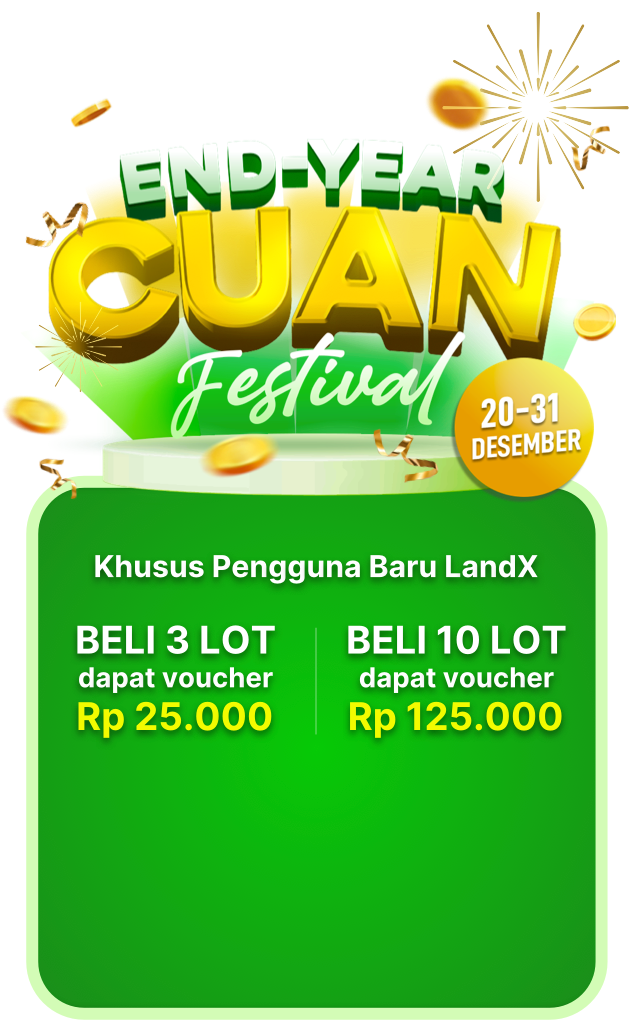
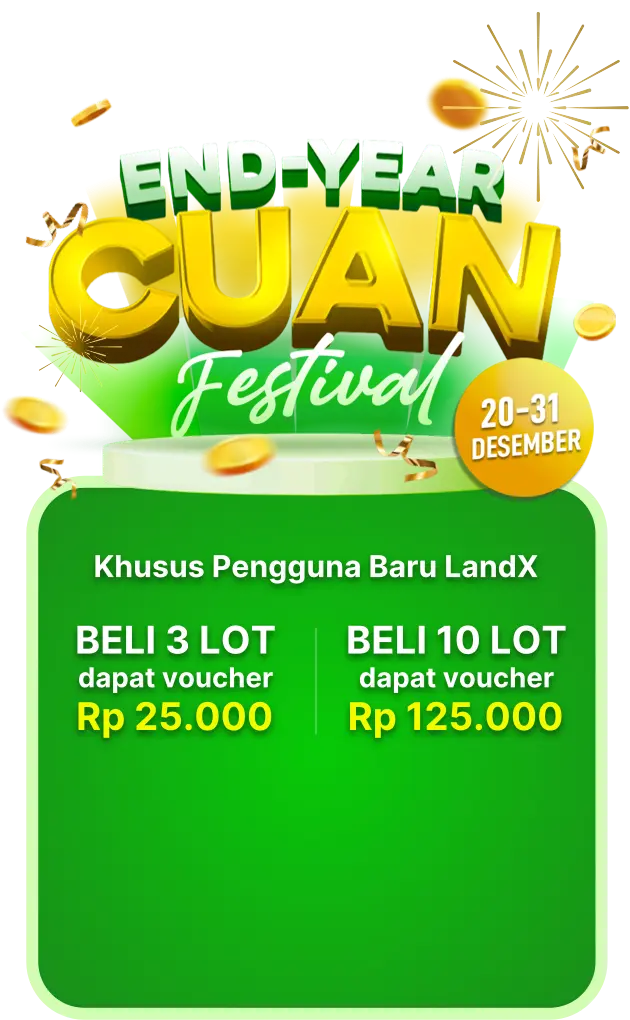
optimize image dan file css

diff --git a/landx-cuan/index.html b/landx-cuan/index.html
@@ -14,7 +14,11 @@
   <link href="https://cdn.jsdelivr.net/npm/bootstrap@5.0.2/dist/css/bootstrap.min.css" rel="stylesheet"
     integrity="sha384-EVSTQN3/azprG1Anm3QDgpJLIm9Nao0Yz1ztcQTwFspd3yD65VohhpuuCOmLASjC" crossorigin="anonymous">
   <link rel="stylesheet" href="https://unpkg.com/swiper@7/swiper-bundle.min.css" />
-  <link rel="stylesheet" href="./styles.css" />
+  <link rel="preload" href="./styles.css" as="style" onload="this.onload=null;this.rel='stylesheet'">
+  <link rel="preload" href="./responsive.css" as="style" onload="this.onload=null;this.rel='stylesheet'">
+  <noscript>
+    <link rel="stylesheet" href="styles.css">
+  </noscript>
   <link rel="stylesheet" href="./responsive.css" />
 </head>
 
